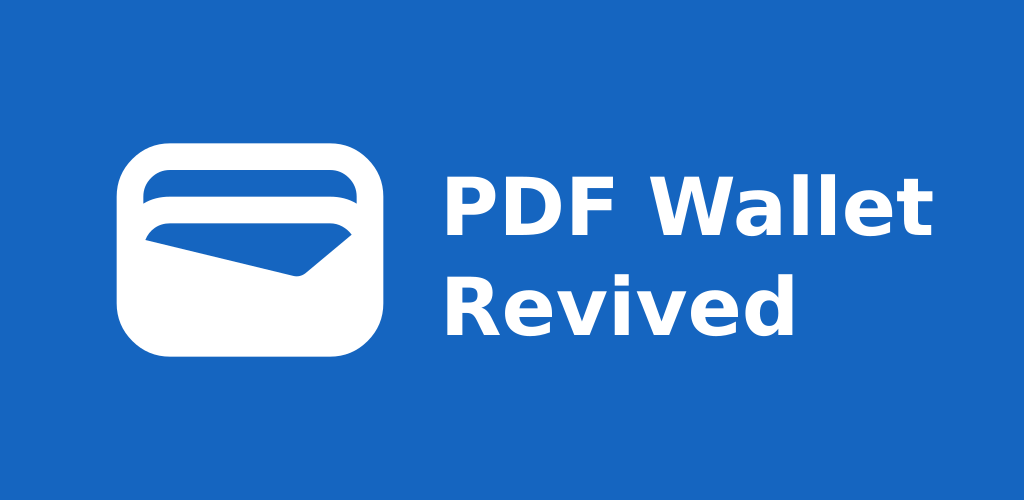
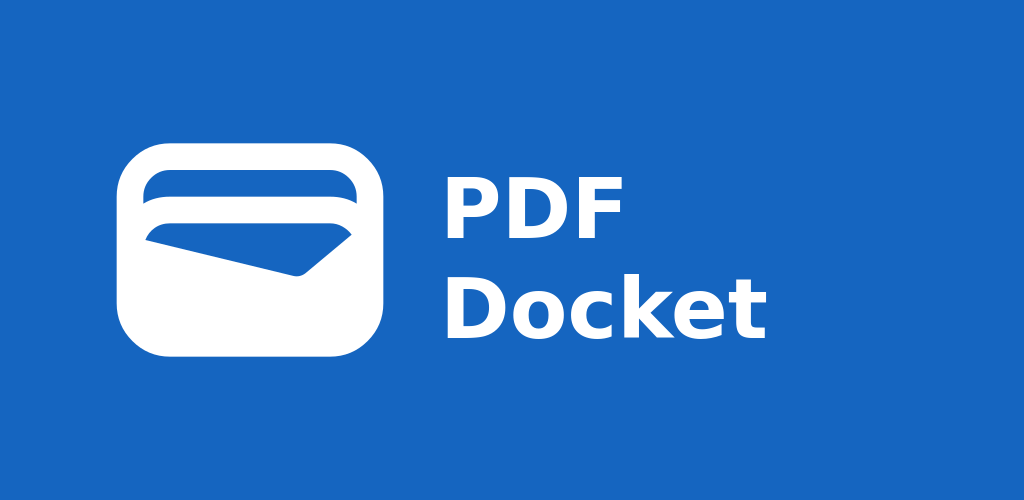
feat: rename the app to PDF Docket
The original author asked this fork to stop using "PDF Wallet" as part
of its name to avoid confusion with his app. Rename the app, store
listings, F-Droid repository and website to PDF Docket, and point every
link at the renamed repository and the pdf-docket.d3sox.me domain.

The package ID stays me.d3sox.pdfwallet so existing installs keep
updating.

Changed region(s): [[0.4375, 0.33, 0.9062, 0.48], [0.4375, 0.54, 0.7812, 0.69]]

diff --git a/website/index.html b/website/index.html
@@ -4,13 +4,13 @@
   <meta charset="utf-8">
   <meta name="viewport" content="width=device-width, initial-scale=1">
   <meta name="color-scheme" content="light dark">
-  <title>PDF Wallet Revived</title>
+  <title>PDF Docket</title>
   <link rel="icon" href="logo.svg" type="image/svg+xml">
   <link rel="stylesheet" href="style.css">
 </head>
 <body>
-  <h1><img src="logo.svg" alt="" width="48" height="48">PDF Wallet Revived</h1>
-  <p>An Android app that stores your PDF tickets, passes and certificates and shows their barcodes in fullscreen. It works offline and is <a href="https://github.com/D3SOX/pdfwallet">free and open source</a>.</p>
+  <h1><img src="logo.svg" alt="" width="48" height="48">PDF Docket</h1>
+  <p>An Android app that stores your PDF tickets, passes and certificates and shows their barcodes in fullscreen. It works offline and is <a href="https://github.com/D3SOX/pdf-docket">free and open source</a>.</p>
 
   <div class="screenshots">
     <img src="screenshots/1.png" alt="Document list with tags" width="1350" height="2400" loading="lazy">
@@ -22,24 +22,24 @@
   <h2>F-Droid</h2>
   <p><a class="button" href="https://f-droid.org/packages/me.d3sox.pdfwallet/">Get it on F-Droid</a></p>
   <p>F-Droid builds each release from source and publishes it a few days later. To get new versions on release day, add this project's own F-Droid repository:</p>
-  <p><a class="button" href="fdroidrepos://pdfwallet.d3sox.me/repo?fingerprint=5DE94793532B65A47FF529D0BA9254338AA3879BF3C696AEFA3FAF56D05D08BB">Add the repository</a></p>
+  <p><a class="button" href="fdroidrepos://pdf-docket.d3sox.me/repo?fingerprint=5DE94793532B65A47FF529D0BA9254338AA3879BF3C696AEFA3FAF56D05D08BB">Add the repository</a></p>
   <p>If the button doesn't open your F-Droid client, add the repository manually:</p>
-  <p>Address: <code>https://pdfwallet.d3sox.me/repo</code></p>
+  <p>Address: <code>https://pdf-docket.d3sox.me/repo</code></p>
   <p>Fingerprint: <code>5DE94793532B65A47FF529D0BA9254338AA3879BF3C696AEFA3FAF56D05D08BB</code></p>
 
   <section id="play-test">
     <h2>Google Play closed test</h2>
-    <p>Help test PDF Wallet Revived before its Google Play release.</p>
+    <p>Help test PDF Docket before its Google Play release.</p>
     <ol>
       <li><a href="https://groups.google.com/g/d3sox-apps-testers">Join the tester group</a></li>
       <li><a href="https://play.google.com/apps/testing/me.d3sox.pdfwallet">Opt in and install on Google Play</a></li>
     </ol>
-    <p>Use the same Google account for both steps. Please stay opted in for at least 14 days and send feedback via <a href="https://github.com/D3SOX/pdfwallet/issues">GitHub Issues</a>.</p>
+    <p>Use the same Google account for both steps. Please stay opted in for at least 14 days and send feedback via <a href="https://github.com/D3SOX/pdf-docket/issues">GitHub Issues</a>.</p>
     <p>Google Play, F-Droid and GitHub builds share one signing key, so you can switch between them without reinstalling the app.</p>
   </section>
 
   <h2>Other ways to install</h2>
-  <p>Add <code>https://github.com/D3SOX/pdfwallet</code> to <a href="https://apps.obtainium.imranr.dev/redirect?r=obtainium://add/https://github.com/D3SOX/pdfwallet">Obtainium</a>, or download the APK from <a href="https://github.com/D3SOX/pdfwallet/releases/latest">GitHub Releases</a>.</p>
+  <p>Add <code>https://github.com/D3SOX/pdf-docket</code> to <a href="https://apps.obtainium.imranr.dev/redirect?r=obtainium://add/https://github.com/D3SOX/pdf-docket">Obtainium</a>, or download the APK from <a href="https://github.com/D3SOX/pdf-docket/releases/latest">GitHub Releases</a>.</p>
 
   <p><a href="privacy.html">Privacy policy</a></p>
 </body>

diff --git a/website/privacy.html b/website/privacy.html
@@ -4,15 +4,15 @@
   <meta charset="utf-8">
   <meta name="viewport" content="width=device-width, initial-scale=1">
   <meta name="color-scheme" content="light dark">
-  <title>PDF Wallet Revived privacy policy</title>
+  <title>PDF Docket privacy policy</title>
   <link rel="stylesheet" href="style.css">
 </head>
 <body>
   <h1>Privacy policy</h1>
-  <p>This policy covers the PDF Wallet Revived Android app (<code>me.d3sox.pdfwallet</code>), published by D3SOX.</p>
+  <p>This policy covers the PDF Docket Android app (<code>me.d3sox.pdfwallet</code>), published by D3SOX.</p>
 
   <h2>No data collection</h2>
-  <p>PDF Wallet Revived doesn't collect, transmit or share any data. The app has no internet permission, so it can't send anything over the network. It contains no ads, analytics or tracking.</p>
+  <p>PDF Docket doesn't collect, transmit or share any data. The app has no internet permission, so it can't send anything over the network. It contains no ads, analytics or tracking.</p>
 
   <h2>Data stored on your device</h2>
   <p>The app stores the PDFs you import, the names and tags you assign and your settings in its private storage on your device. Other apps can't read this storage. A PDF leaves the app only when you share it with another app yourself.</p>
@@ -22,7 +22,7 @@
   <p>The app uses biometric authentication only if you turn on "Require authentication" in the settings. Android checks your fingerprint, face or PIN. The app never receives biometric data.</p>
 
   <h2>Contact</h2>
-  <p>Ask questions or report problems in the <a href="https://github.com/D3SOX/pdfwallet/issues">issue tracker</a>.</p>
+  <p>Ask questions or report problems in the <a href="https://github.com/D3SOX/pdf-docket/issues">issue tracker</a>.</p>
 
   <p>Last updated: October 16, 2026</p>
 </body>

diff --git a/README.md b/README.md
@@ -1,17 +1,17 @@
-<h1><img src="website/logo.svg" alt="" width="40" height="40" align="left">PDF Wallet Revived</h1>
+<h1><img src="website/logo.svg" alt="" width="40" height="40" align="left">PDF Docket</h1>
 
 An Android app that stores your PDF tickets, passes and certificates and shows their barcodes in fullscreen.
 
 <p>
   <a href="https://f-droid.org/packages/me.d3sox.pdfwallet/"><img src="https://f-droid.org/badge/get-it-on.png" alt="Get it on F-Droid" height="80"></a><!--
-  --><a href="https://fdroid.link/#https://pdfwallet.d3sox.me/repo?fingerprint=5DE94793532B65A47FF529D0BA9254338AA3879BF3C696AEFA3FAF56D05D08BB"><img src="website/fdroid-repo-badge.svg" alt="Add our F-Droid repo" height="80"></a><!--
-  --><a href="https://apps.obtainium.imranr.dev/redirect?r=obtainium://add/https://github.com/D3SOX/pdfwallet"><img src="https://raw.githubusercontent.com/ImranR98/Obtainium/main/assets/graphics/badge_obtainium.png" alt="Get it on Obtainium" height="80"></a><!--
-  --><a href="https://pdfwallet.d3sox.me/#play-test"><img src="website/play-test-badge.svg" alt="Join the test on Google Play" height="80"></a>
+  --><a href="https://fdroid.link/#https://pdf-docket.d3sox.me/repo?fingerprint=5DE94793532B65A47FF529D0BA9254338AA3879BF3C696AEFA3FAF56D05D08BB"><img src="website/fdroid-repo-badge.svg" alt="Add our F-Droid repo" height="80"></a><!--
+  --><a href="https://apps.obtainium.imranr.dev/redirect?r=obtainium://add/https://github.com/D3SOX/pdf-docket"><img src="https://raw.githubusercontent.com/ImranR98/Obtainium/main/assets/graphics/badge_obtainium.png" alt="Get it on Obtainium" height="80"></a><!--
+  --><a href="https://pdf-docket.d3sox.me/#play-test"><img src="website/play-test-badge.svg" alt="Join the test on Google Play" height="80"></a>
 </p>
 
-F-Droid builds each release from source and publishes it a few days later. To get new versions on release day, add this project's own F-Droid repository with the second badge. New versions also appear on [GitHub Releases](https://github.com/D3SOX/pdfwallet/releases) right away.
+F-Droid builds each release from source and publishes it a few days later. To get new versions on release day, add this project's own F-Droid repository with the second badge. New versions also appear on [GitHub Releases](https://github.com/D3SOX/pdf-docket/releases) right away.
 
-To join the Google Play closed test, first [join the tester group](https://groups.google.com/g/d3sox-apps-testers), then [opt in on Google Play](https://play.google.com/apps/testing/me.d3sox.pdfwallet) with the same Google account. Please stay opted in for at least 14 days, try the app and send feedback via [GitHub Issues](https://github.com/D3SOX/pdfwallet/issues). Google Play, F-Droid and GitHub builds share one signing key, so you can switch between them without reinstalling the app.
+To join the Google Play closed test, first [join the tester group](https://groups.google.com/g/d3sox-apps-testers), then [opt in on Google Play](https://play.google.com/apps/testing/me.d3sox.pdfwallet) with the same Google account. Please stay opted in for at least 14 days, try the app and send feedback via [GitHub Issues](https://github.com/D3SOX/pdf-docket/issues). Google Play, F-Droid and GitHub builds share one signing key, so you can switch between them without reinstalling the app.
 
 <img src="fastlane/metadata/android/en-US/images/phoneScreenshots/1.png" width="200" alt="Document list"> <img src="fastlane/metadata/android/en-US/images/phoneScreenshots/2.png" width="200" alt="Barcode in fullscreen"> <img src="fastlane/metadata/android/en-US/images/phoneScreenshots/4.png" width="200" alt="Documents filtered by tag"> <img src="fastlane/metadata/android/en-US/images/phoneScreenshots/6.png" width="200" alt="Dark mode">
 
@@ -19,11 +19,11 @@ To join the Google Play closed test, first [join the tester group](https://group
 
 PDF Wallet was open source until its author, Michael Troger, archived [the original repository](https://github.com/michaeltroger/pdfwallet-android) and continued the app as the proprietary PDFWallet Vault. Its paid "Pro" features moved behind an in-app purchase.
 
-This fork keeps the app open source under the GPLv3. It rebuilds the interface with Jetpack Compose and Material 3, modeled on the new app, and includes the former Pro features for free: tags, tag filters, inverted PDF colors in dark mode, a forced light or dark theme and half-size barcodes.
+PDF Docket is a fork of the last open source version and stays under the GPLv3. It has its own interface built with Jetpack Compose and Material 3, and includes the former Pro features for free: tags, tag filters, inverted PDF colors in dark mode, a forced light or dark theme and half-size barcodes.
 
 ## Features
 
-- Import one or several PDFs at once, or open them with PDF Wallet Revived from a file browser, email client or web browser.
+- Import one or several PDFs at once, or open them with PDF Docket from a file browser, email client or web browser.
 - Detect QR, Aztec, DataMatrix, PDF417, UPC-A, UPC-E, EAN-8, EAN-13, Code 39, Code 93, Code 128, ITF and Codabar barcodes and show them in fullscreen.
 - Swipe between documents and switch between the barcode and the PDF, or show both in split screen.
 - Tag, search and sort documents by import date, name or file size.

diff --git a/CONTRIBUTING.md b/CONTRIBUTING.md
@@ -34,4 +34,4 @@ Thank you for your interest in contributing to this project!
 - Open a pull request with new or improved translations
 
 ## Need support?
-Ask in the [issue tracker](https://github.com/D3SOX/pdfwallet/issues).
+Ask in the [issue tracker](https://github.com/D3SOX/pdf-docket/issues).
